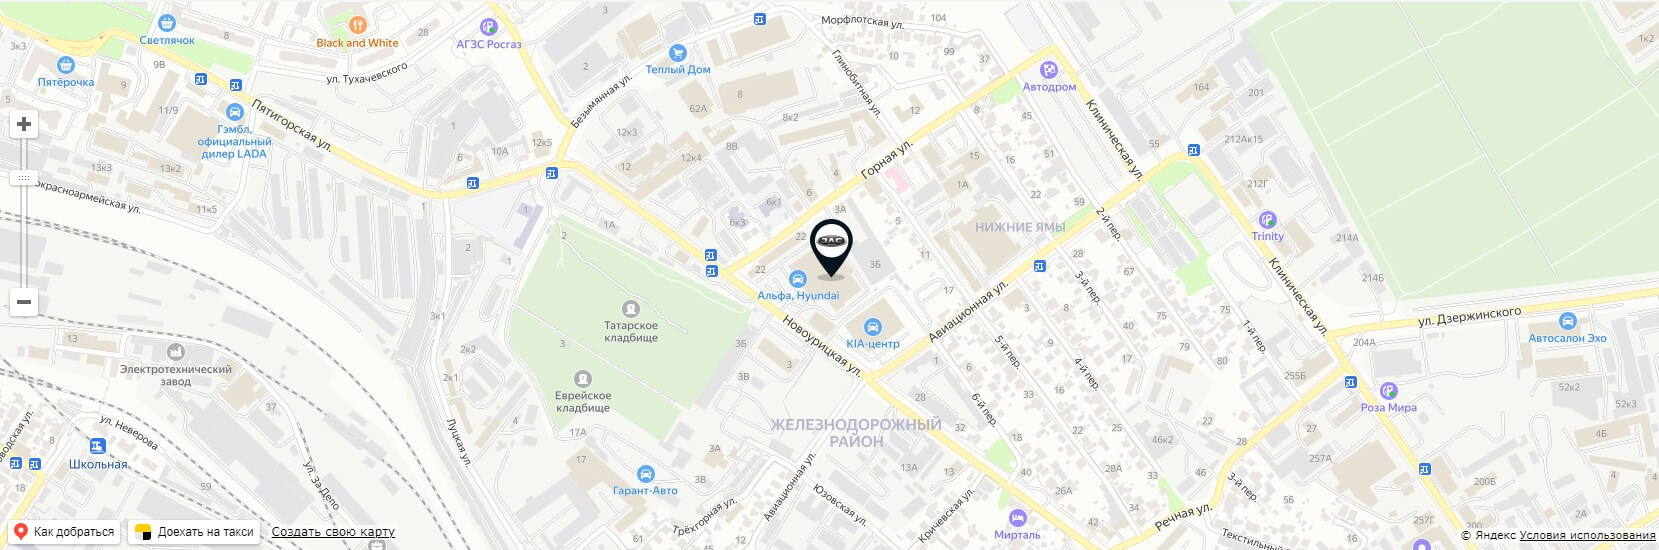
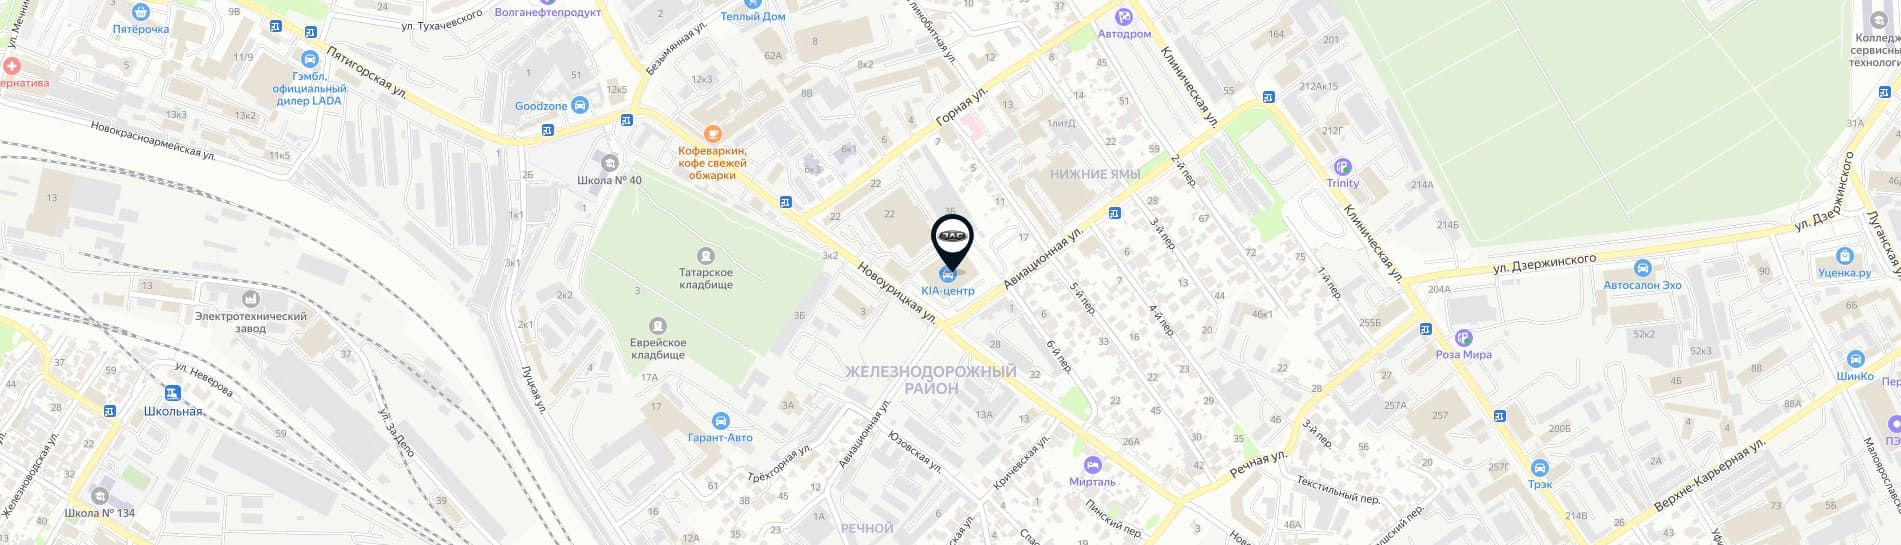
upd map image & map coords

Changed region(s): [[0.0, 0.0, 1.0, 1.0], [0.2767, 0.5303, 0.3074, 0.5615]]

diff --git a/src/js/modules/map.js b/src/js/modules/map.js
@@ -9,7 +9,7 @@ function initYandexMap() {
 			var myMap = new ymaps.Map(
 				mapId,
 				{
-					center: [53.184186, 50.152134],
+					center: [53.183571,50.153104],
 					zoom: 16,
 					controls: ["zoomControl"],
 				},
@@ -19,10 +19,10 @@ function initYandexMap() {
 			);
 			myMap.behaviors.disable("scrollZoom");
 			var myPlacemark1 = new ymaps.Placemark(
-				[53.184186, 50.152134],
+				[53.183571,50.153104],
 				{
-					balloonContent: "г. Самара, ул. Ново-Урицкая, д. 22",
-					hintContent: "г. Самара, ул. Ново-Урицкая, д. 22",
+					balloonContent: "г. Самара, ул. Ново-Урицкая, д. 22 Ж",
+					hintContent: "г. Самара, ул. Ново-Урицкая, д. 22 Ж",
 				},
 				{
 					iconLayout: "default#image",
